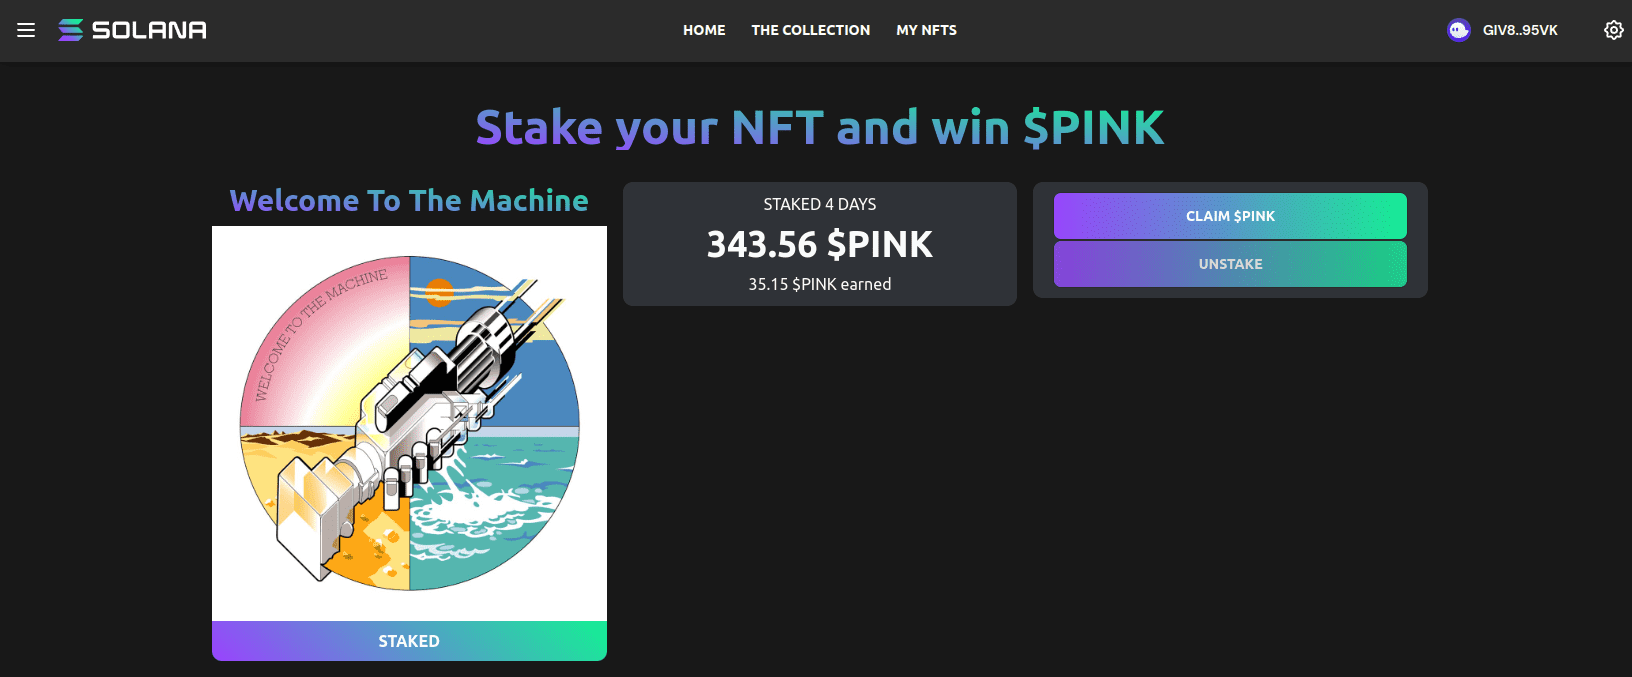
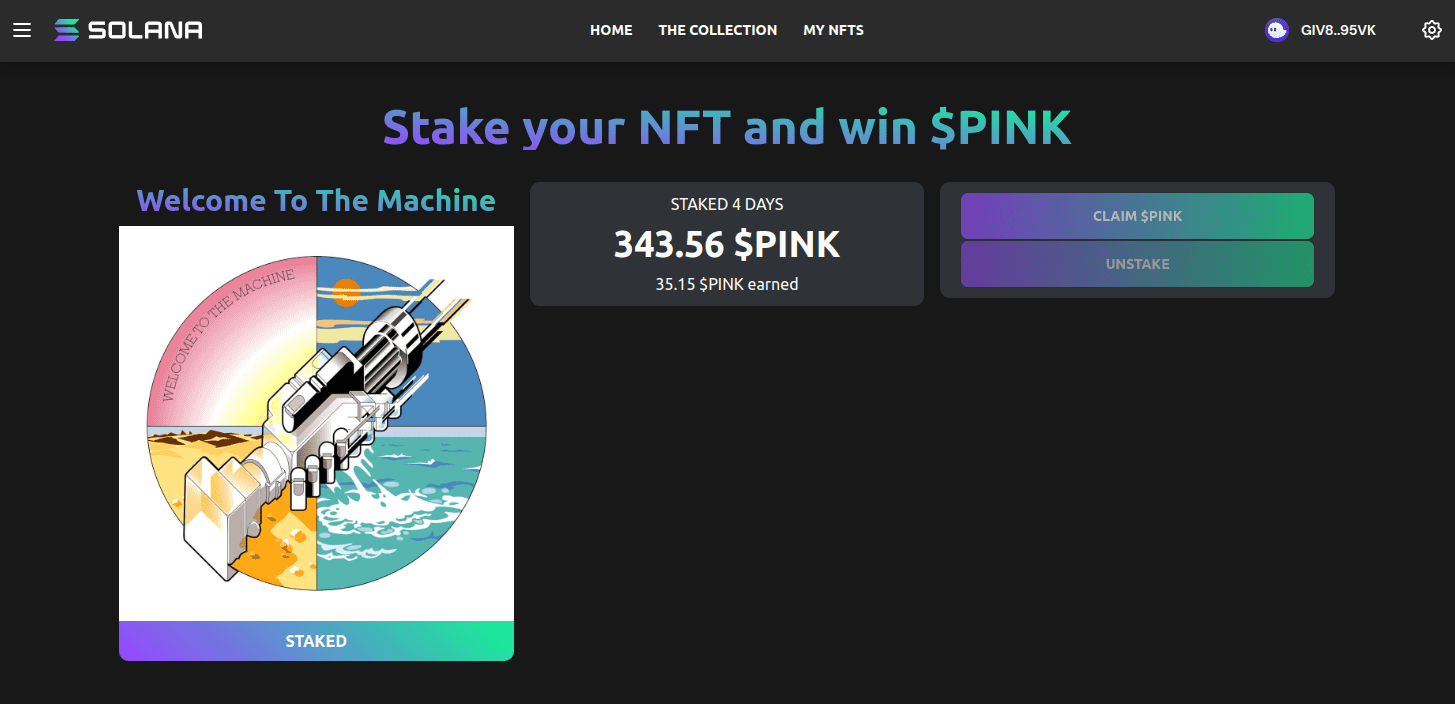
Update README.md and Image

diff --git a/README.md b/README.md
@@ -4,6 +4,9 @@ Solana, Metaplex, and Candy Machine Token Collection
 <br>
 Mint NFT, stake it and win a $PINK as reward
 
+![Stake NFT Demo](https://github.com/KevinFiorentino/pink-floyd-nft-collection/blob/master/public/stake-demo.png?raw=true)
+
+
 [Staking program](https://github.com/KevinFiorentino/solana-nft-staking)
 
 ### Create reward token
